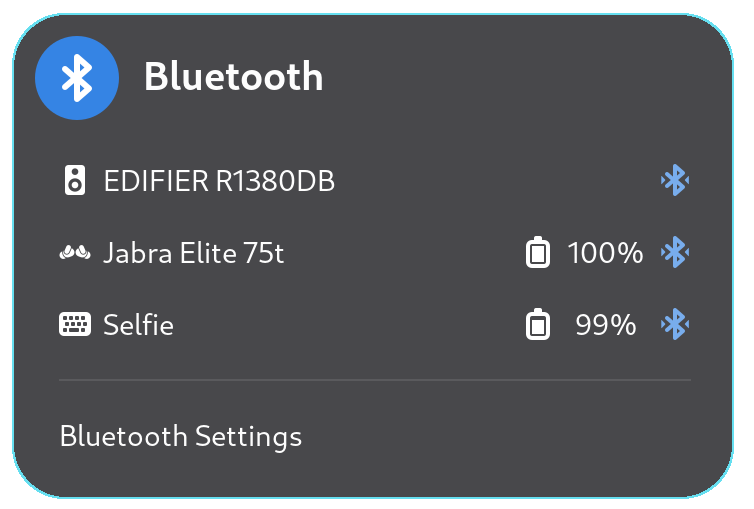
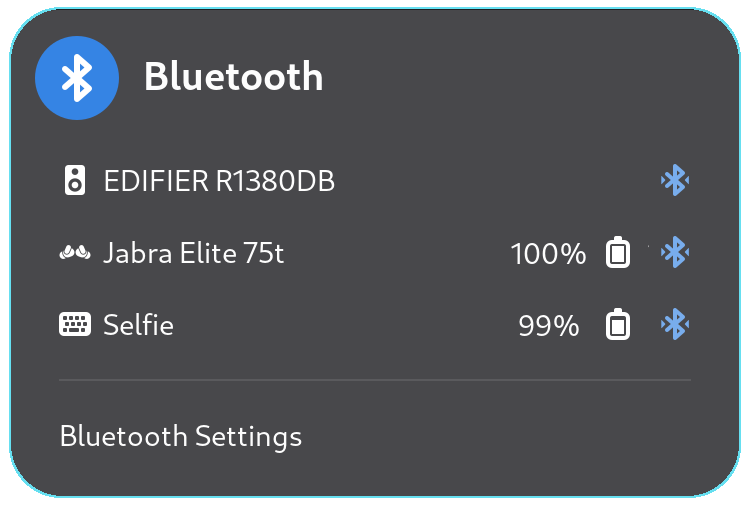
update quick settings docs

diff --git a/docs/Preferences/Quick Menu.md b/docs/Preferences/Quick Menu.md
@@ -20,8 +20,40 @@ permalink: /preferences/quick-menu
 <img src="{{ 'assets/images/preferences/quick-menu/qc-prefs.png' | relative_url }}" width="100%">
 
 ---
+## Enable popup submenu widget mode
+
+{: .important-title }
+> Introduced in Version 40
+
+<br>
+<img src="{{ 'assets/images/preferences/quick-menu/qc-submenu-prefs.png' | relative_url }}" width="100%">
+
+When enabled, the Bluetooth quick menu replaces the inline battery display with a dedicated popup submenu. This submenu provides a richer interface, featuring circular battery indicators, device icons, and advanced controls such as ANC and other supported headphone features.
+
+Pros: Ideal for advanced Bluetooth devices (like AirPods) that support additional controls, providing a cleaner and more informative layout.
+
+Cons: With this mode enabled, the connect/disconnect action is moved to a dedicated button, since the submenu adds an “expand” button to open the detailed view. This design prevents accidental disconnects when users try to expand the submenu but click near the edge of the device entry.
+
+
+### **Disabled**
+<br>
+<img src="{{ 'assets/images/preferences/quick-menu/qc-battery-icon-text.png' | relative_url }}" width="50%">
+<br>
+<br>
+### **Enabled**
+<br>
+<img src="{{ 'assets/images/preferences/quick-menu/qc-submenu.png' | relative_url }}" width="50%">
+<br>
+<br>
+
+---
 
 ## Show battery icon for Bluetooth devices
+<br>
+<img src="{{ 'assets/images/preferences/quick-menu/qc-show-battery-icon-prefs.png' | relative_url }}" width="100%">
+
+Shows a battery icon indicating the charge level of supported Bluetooth devices in the Bluetooth quick menu.
+
 <br>
 <img src="{{ 'assets/images/preferences/quick-menu/qc-battery-icon.png' | relative_url }}" width="50%">
 
@@ -29,10 +61,19 @@ permalink: /preferences/quick-menu
 
 ## Show Bluetooth device battery percentage
 <br>
+<img src="{{ 'assets/images/preferences/quick-menu/qc-show-battery-text-prefs.png' | relative_url }}" width="100%">
+
+Shows the battery percentage of supported Bluetooth devices as text in the Bluetooth quick menu.
+<br>
 <img src="{{ 'assets/images/preferences/quick-menu/qc-battery-text.png' | relative_url }}" width="50%">
 
+---
+
 ## Display battery level icon before text
-When both, Battery Percentage Text and Battery Level Icon are enabled, Setting this feature to enabled with display Text after Icon, and vice versa
+<br>
+<img src="{{ 'assets/images/preferences/quick-menu/qc-swap-icon-text-prefs.png' | relative_url }}" width="100%">
+
+When both Battery Percentage Text and Battery Level Icon are enabled, this setting controls their display order. When disabled, the battery icon appears before the text (icon on the left, text on the right). When enabled, their positions are swapped, showing the text before the icon.
 <br>
 <br>
 
@@ -50,6 +91,8 @@ When both, Battery Percentage Text and Battery Level Icon are enabled, Setting t
 ---
 
 ## Sort devices by connection history
+<br>
+<img src="{{ 'assets/images/preferences/quick-menu/qc-sort.png' | relative_url }}" width="100%">
 <br>
  This setting allows you to sort Bluetooth devices based on their recent connection activity.
 

diff --git a/docs/Changelog.md b/docs/Changelog.md
@@ -6,6 +6,7 @@ permalink: /changelogs
 ---
 
 # Changelogs
+
 {: .important-title }
 > GN-45_Version 40 &emsp;&emsp; Sep 28, 2025
 > * Added support for Airpods Pro 3
